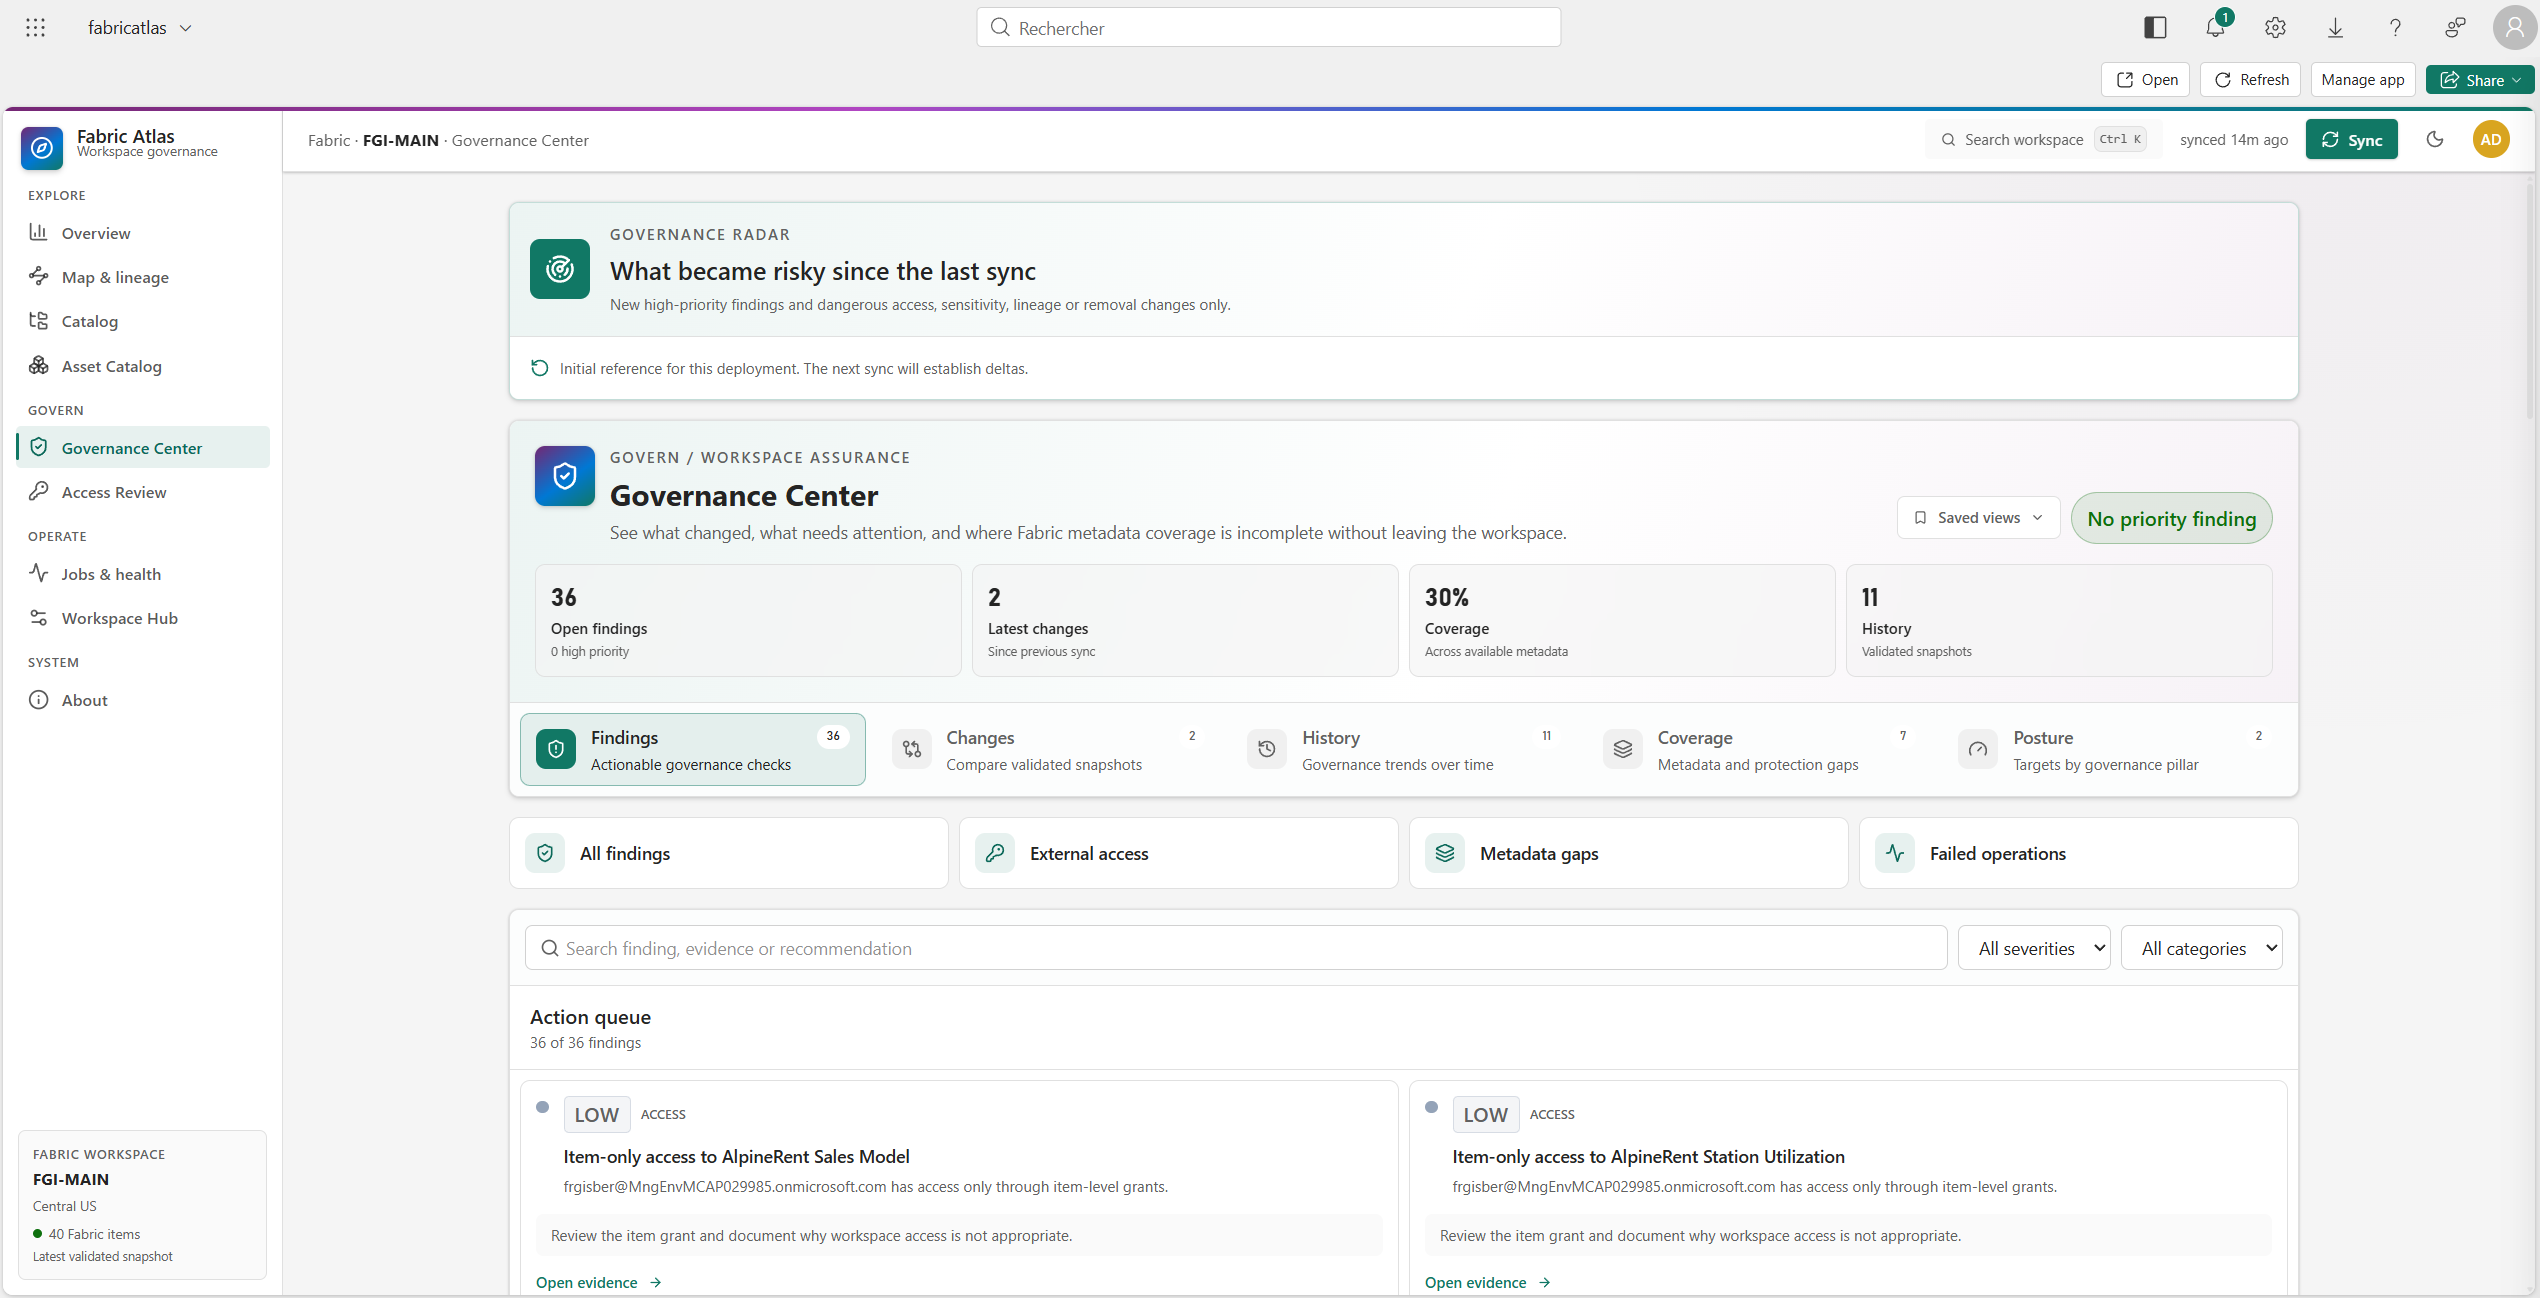
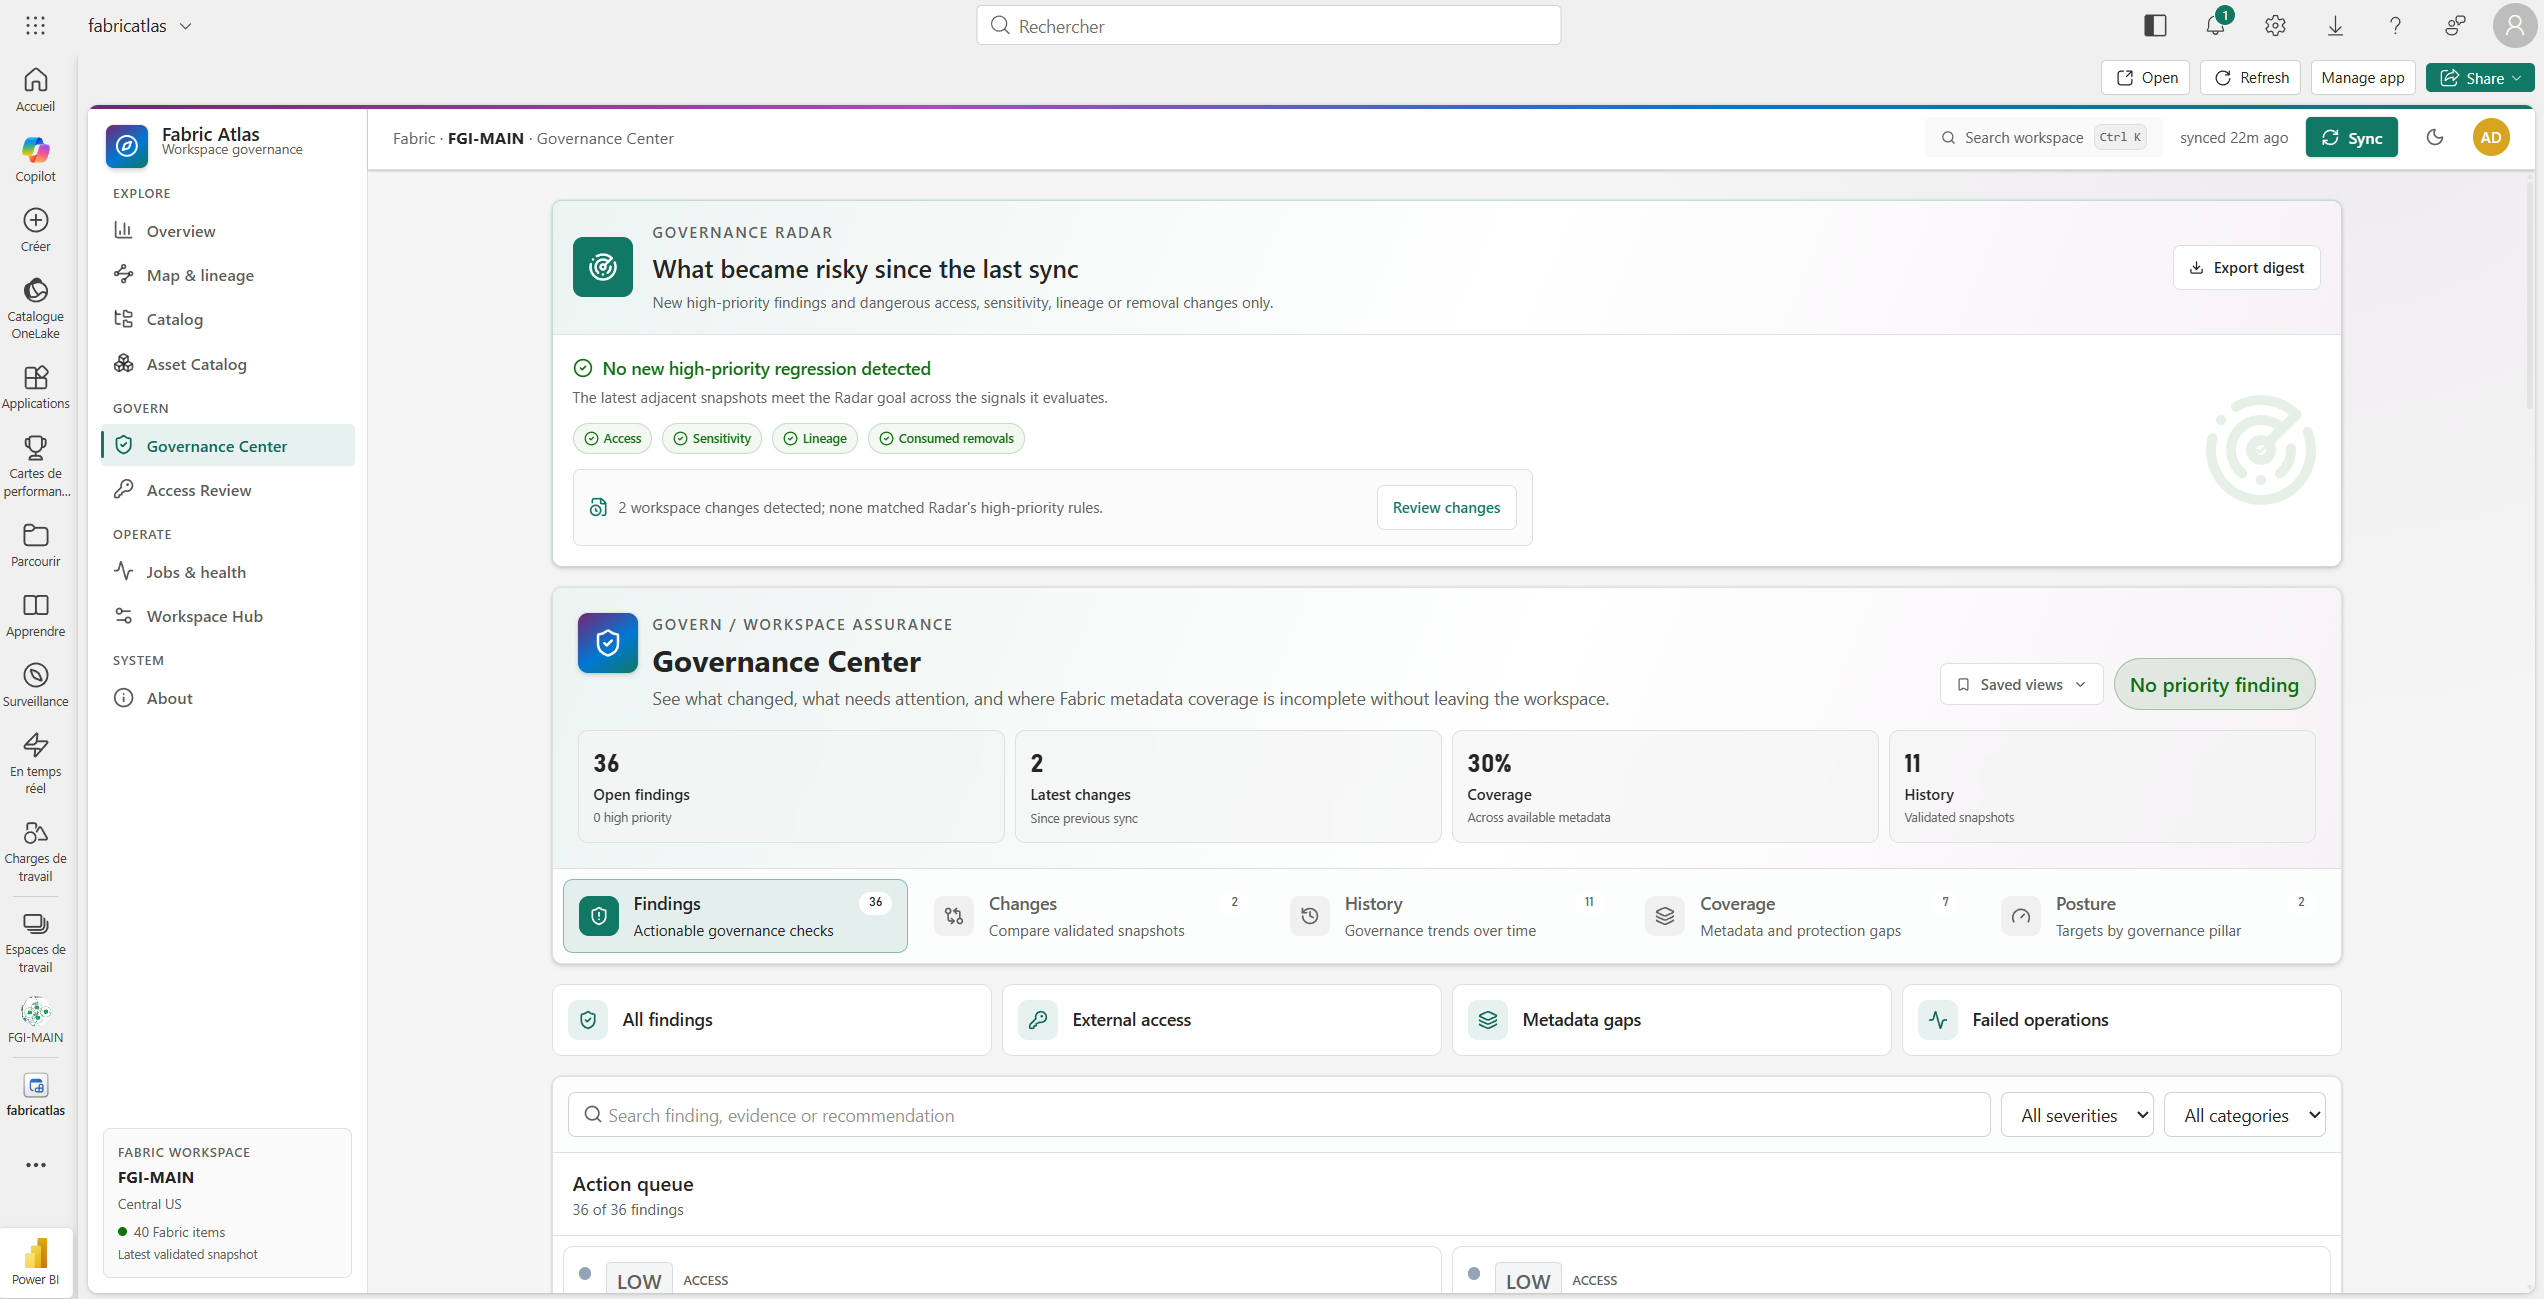
fix: force one-time v1.9.1 sync gate
Copilot-Session: 357c7fcc-7167-4d8d-83fc-7b34186a0920

diff --git a/src/atlas/release.ts b/src/atlas/release.ts
@@ -24,11 +24,18 @@ export const BUILD_DATE =
   (import.meta.env.VITE_APP_BUILD_DATE as string | undefined) ??
   new Date(0).toISOString();
 
-export const DEPLOYMENT_ID = `${APP_VERSION}:${BUILD_COMMIT}:${BUILD_DATE}`;
+export const SNAPSHOT_CONTRACT_ID = "snapshot-v1";
+
+export const DEPLOYMENT_ID =
+  `${APP_VERSION}:${SNAPSHOT_CONTRACT_ID}:${BUILD_COMMIT}:${BUILD_DATE}`;
 
 function deploymentGeneration(value: string | undefined): string | undefined {
   const match = /^(\d+)\.(\d+)(?:\.|:|$)/.exec(value?.trim() ?? "");
-  return match ? `${match[1]}.${match[2]}` : undefined;
+  if (!match) return undefined;
+  const contract =
+    /^\d+\.\d+\.\d+:(snapshot-v\d+):/.exec(value?.trim() ?? "")?.[1] ??
+    "legacy";
+  return `${match[1]}.${match[2]}:${contract}`;
 }
 
 export function sameDeploymentGeneration(
@@ -55,6 +62,7 @@ export const RELEASES: AtlasRelease[] = [
           "Every successful sync replaces the active catalog and history immediately, then remounts the current view against the new snapshot.",
           "Fresh snapshots retain their deployment identity so Radar no longer resets to a baseline after every synchronization.",
           "Patch releases preserve the existing snapshot contract and do not force an unnecessary deployment sync.",
+          "This deployment establishes the explicit snapshot-v1 marker through one guided synchronization without deleting validated history.",
         ],
       },
       {

diff --git a/src/atlas/release.spec.ts b/src/atlas/release.spec.ts
@@ -9,6 +9,12 @@ describe("sameDeploymentGeneration", () => {
         "1.9.1:new-commit:2026-08-31",
       ),
     ).toBe(true);
+    expect(
+      sameDeploymentGeneration(
+        "1.9.0:snapshot-v1:old-commit:2026-08-30",
+        "1.9.1:snapshot-v1:new-commit:2026-08-31",
+      ),
+    ).toBe(true);
   });
 
   it("requires a new baseline when the minor contract changes", () => {
@@ -16,6 +22,15 @@ describe("sameDeploymentGeneration", () => {
       sameDeploymentGeneration(
         "1.9.1:old-commit:2026-08-31",
         "1.10.0:new-commit:2026-09-01",
+      ),
+    ).toBe(false);
+  });
+
+  it("requires one guided sync when an explicit contract replaces legacy IDs", () => {
+    expect(
+      sameDeploymentGeneration(
+        "1.9.1:old-commit:2026-08-30",
+        "1.9.1:snapshot-v1:new-commit:2026-08-30",
       ),
     ).toBe(false);
   });

diff --git a/CHANGELOG.md b/CHANGELOG.md
@@ -16,6 +16,7 @@ The format follows [Keep a Changelog](https://keepachangelog.com/en/1.1.0/), and
 
 - Successful synchronization replaces current data and history atomically and remounts the active view against the new snapshot.
 - Patch releases within the same major/minor snapshot contract reuse existing history instead of forcing another deployment sync.
+- The deployment identity now carries an explicit `snapshot-v1` contract marker; existing legacy snapshots receive one guided synchronization without being deleted.
 - Asset searches by item name or type retain all real child assets.
 
 ### Fixed

diff --git a/README.md b/README.md
@@ -229,8 +229,8 @@ asset exposes its source, model context and additive effective access.
 
 ### Governance Center
 
-Findings, snapshot changes, history, coverage and sensitivity are grouped into
-one governance workspace with saved views and evidence links.
+Governance Radar, findings, snapshot changes, history, coverage and posture are
+grouped into one governance workspace with saved views and evidence links.
 
 ![Fabric Atlas Governance Center](docs/screenshots/governance-center.png)
 
